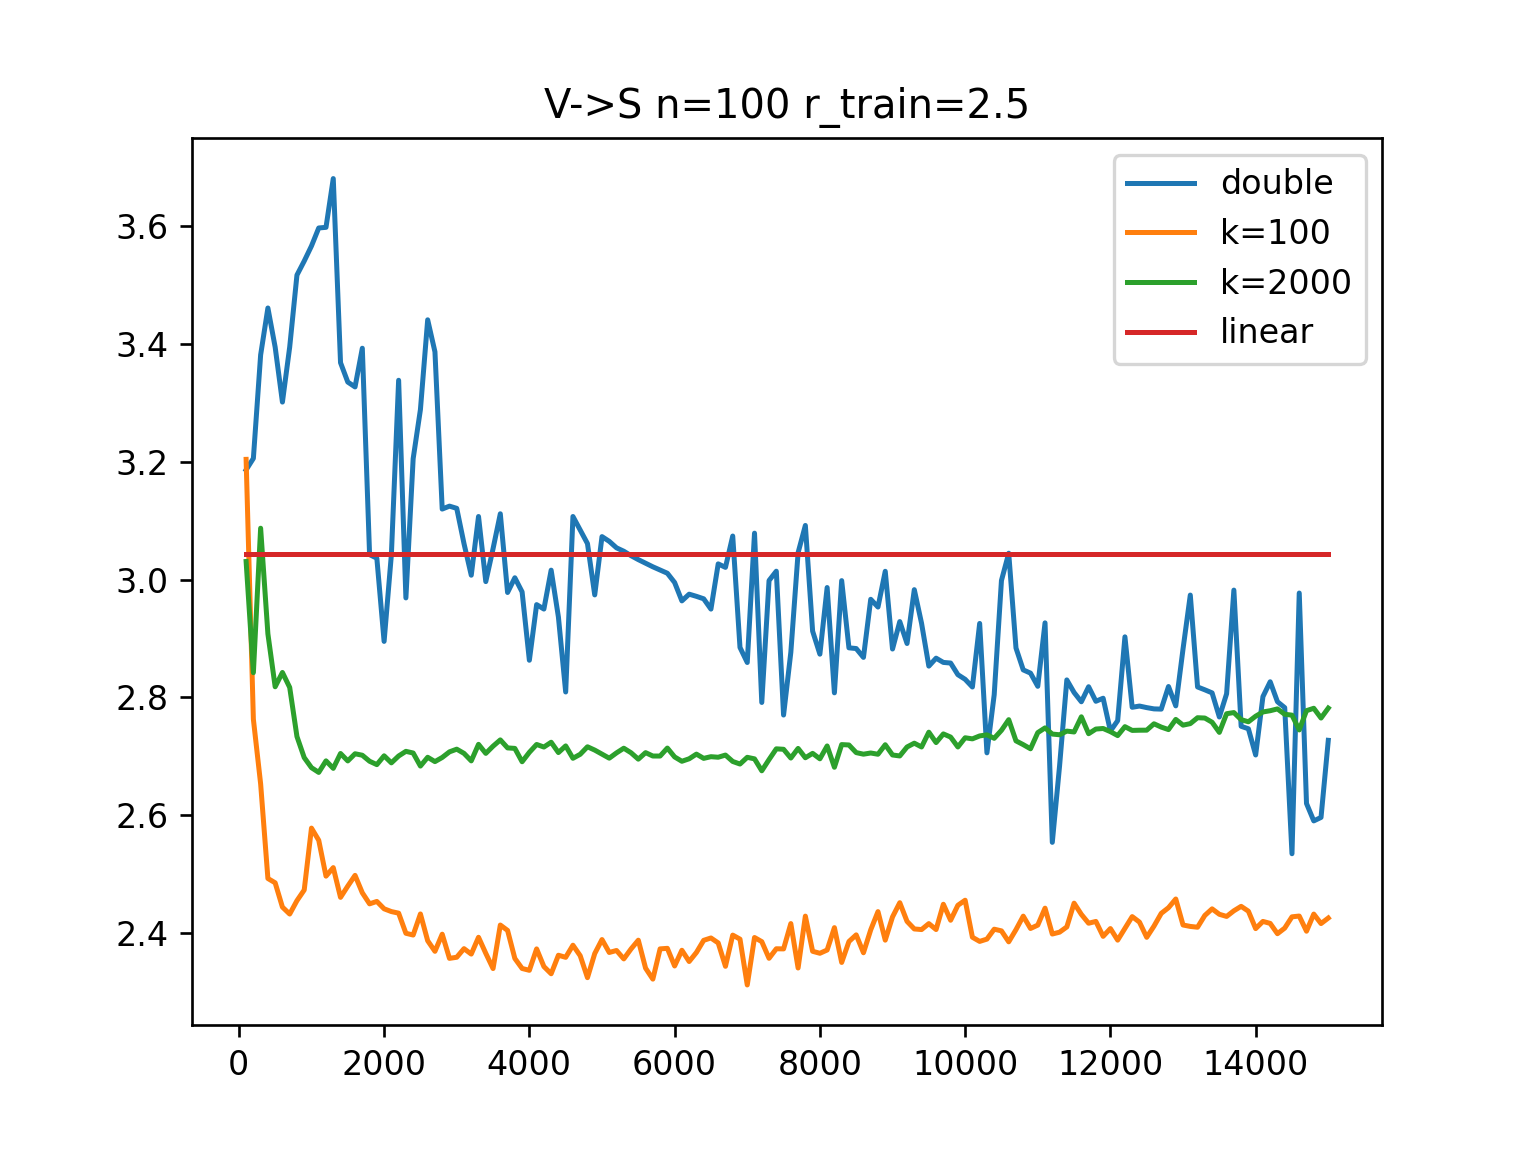
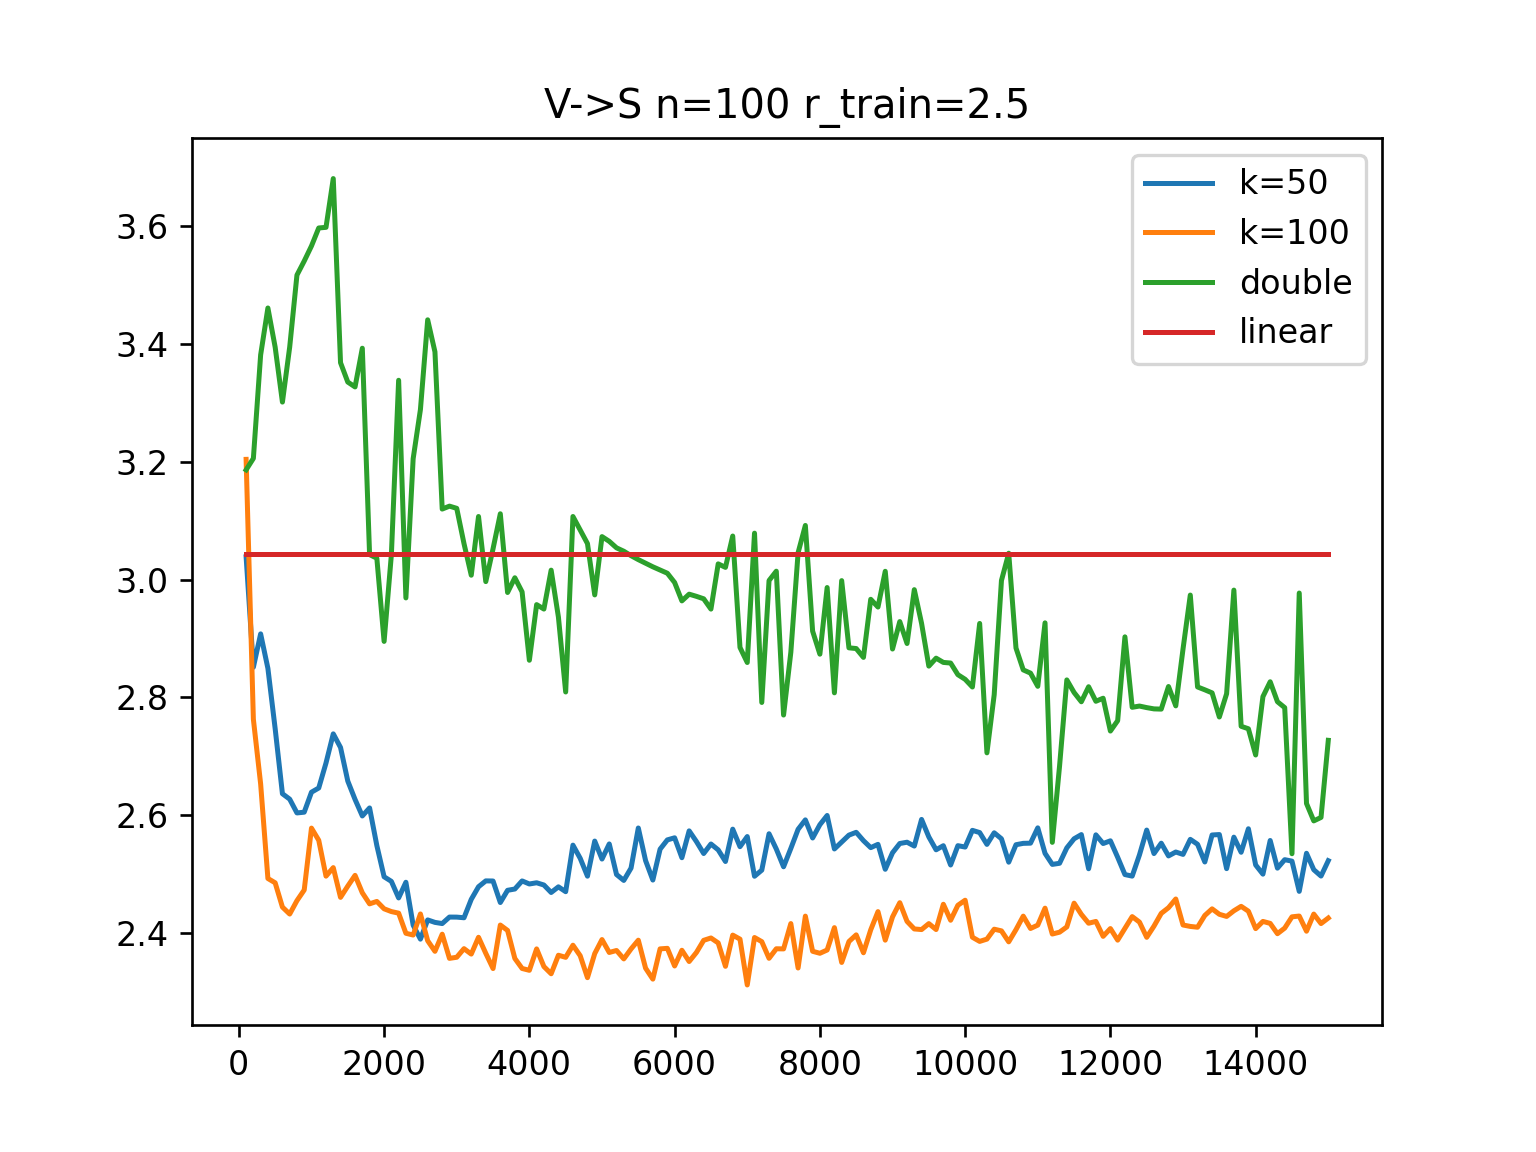
10.24

diff --git a/code/MLP.py b/code/MLP.py
@@ -64,10 +64,9 @@ def Weight_model(X, Y, epochs = 2, cov_mask=None, order=1, num_steps = 5000, lr 
         
         independ_loss, balance_loss, loss_s, loss_2 = decorr_loss(X, weight, cov_mask, order=order)
         
-        # predict_loss, r_loss, r_weight = p_model.train_and_test(X, Y, weight)
-        # loss = independ_loss +  k * predict_loss
-        
-        loss = independ_loss
+        predict_loss, r_loss, r_weight = p_model.train_and_test(X, Y, weight)
+        loss = independ_loss +  k * predict_loss
+        # loss = independ_loss
         loss.backward()
         optimizer.step()
         if (i+1) % iter_print == 0:
@@ -75,8 +74,8 @@ def Weight_model(X, Y, epochs = 2, cov_mask=None, order=1, num_steps = 5000, lr 
             record /= np.sum(record) # normalize: weights sum up to 1
             weight_list.append(record)
             if (i+1) % (iter_print*10) == 0:
-                print(f"iter{i+1}: Decorrelation loss:{independ_loss} Loss: {loss}")
-                # print(f"iter{i+1}: Decorrelation loss:{independ_loss} predict_loss:{predict_loss} Loss: {loss}")
+                # print(f"iter{i+1}: Decorrelation loss:{independ_loss} Loss: {loss}")
+                print(f"iter{i+1}: Decorrelation loss:{independ_loss} predict_loss:{predict_loss} Loss: {loss}")
             # record the corr of loss and weight
             # correlation_coefficient = np.corrcoef(r_loss.detach().numpy().T, (r_weight**2).detach().numpy().T)[0,1]
             # corr_list.append(correlation_coefficient) 

diff --git a/code/main.py b/code/main.py
@@ -126,7 +126,7 @@ def main(args, round, logger):
     
     # baseline2: DWR
     dwr_ans = []
-    
+    """
     logger.info('Start training DWR...')
     model = LinearRegression()
     weight = torch.ones(n, 1, device=device)        
@@ -141,7 +141,7 @@ def main(args, round, logger):
             Yp = model.predict(X_test)
             b.append(mean_squared_error(Y_test, Yp))
         dwr_ans.append(b)
-    
+    """
     return ans, linear_ans, dwr_ans
 
 if __name__ == "__main__":
@@ -170,9 +170,9 @@ if __name__ == "__main__":
     for iter, ans in zip(x, mean_neg_RMSE):
         print(f"iter{iter}: neg_RMSE = {ans}")
     print(f"linear neg_RMSE = {mean_linear}")
-    np.save(f'./RMSEs/combine/{args.mode}/n={args.n}_r={args.r_train}',mean_neg_RMSE)
-    np.save(f'./RMSEs/combine/{args.mode}/DWR_n={args.n}_r={args.r_train}',mean_dwr)
-    np.save(f'./RMSEs/combine/{args.mode}/linear_n={args.n}_r={args.r_train}',[mean_linear]*len(x))
+    np.save(f'./RMSEs/combine/{args.mode}/n={args.n}_k={args.k}',mean_neg_RMSE)
+    # np.save(f'./RMSEs/combine/{args.mode}/DWR_n={args.n}_r={args.r_train}',mean_dwr)
+    # np.save(f'./RMSEs/combine/{args.mode}/linear_n={args.n}_r={args.r_train}',[mean_linear]*len(x))
     # plt.figure(dpi = 240)
     # plt.plot(x, mean_neg_RMSE, label = 'new method')
     # plt.plot(x, mean_dwr, label = 'dwr')

diff --git a/code/Prediction_Model.py b/code/Prediction_Model.py
@@ -14,8 +14,8 @@ class PredictionModel(nn.Module):
         return self.linear(x)
     
     def train_and_test(self, X, Y, weight):
-        weight_clone =  weight.detach().clone()
-        weight_clone = (weight_clone**2) / (weight_clone**2).sum()
+        weight = (weight**2)
+        weight_clone = weight.detach().clone()
         self.train()
         # train {epochs} steps
         for epoch in range(self.epochs):
@@ -28,6 +28,6 @@ class PredictionModel(nn.Module):
         # return prediction loss
         output = self.forward(X)
         loss = self.criterion(output, Y, reduction='none')
-        weighted_loss = (loss * torch.max(weight_clone) - loss * weight_clone).mean()
+        weighted_loss = (loss * torch.max(weight) - loss * weight).mean()
         return weighted_loss, loss, weight
     

diff --git a/arange_by_mode.md b/arange_by_mode.md
@@ -1,0 +1,111 @@
+### S->V
+n = 100
+<div style="display: flex;">
+    with DWR
+    <img src="final/S->V_n=100.png" alt="" width="400">
+    without DWR
+    <img src="final/S->V_n=100_withoutDWR.png" alt="" width="400">
+</div>
+n = 200
+<div style="display: flex;">
+    with DWR
+    <img src="final/S->V_n=200.png" alt="" width="400">
+    without DWR
+    <img src="final/S->V_n=200_withoutDWR.png" alt="" width="400">
+</div>
+<div style="display: flex;">
+    n = 500
+    <img src="final/S->V_n=500.png" alt="" width="400">
+    n = 1000
+    <img src="final/S->V_n=1000.png" alt="" width="400">
+</div>
+<div style="display: flex;">
+    n = 1500
+    <img src="final/S->V_n=1500.png" alt="" width="400">
+    n = 2000
+    <img src="final/S->V_n=2000.png" alt="" width="400">
+</div>
+
+### V->S
+n = 100
+<div style="display: flex;">
+    with DWR
+    <img src="final/V->S_n=100.png" alt="" width="400">
+    without DWR
+    <img src="final/V->S_n=100_withoutDWR.png" alt="" width="400">
+</div>
+n = 200
+<div style="display: flex;">
+    with DWR
+    <img src="final/V->S_n=200.png" alt="" width="400">
+    without DWR
+    <img src="final/V->S_n=200_withoutDWR.png" alt="" width="400">
+</div>
+<div style="display: flex;">
+    n = 500
+    <img src="final/V->S_n=500.png" alt="" width="400">
+    n = 1000
+    <img src="final/V->S_n=1000.png" alt="" width="400">
+</div>
+<div style="display: flex;">
+    n = 1500
+    <img src="final/V->S_n=1500.png" alt="" width="400">
+    n = 2000
+    <img src="final/V->S_n=2000.png" alt="" width="400">
+</div>
+
+### S_|_V
+n = 100
+<div style="display: flex;">
+    with DWR
+    <img src="final/S_|_V_n=100.png" alt="" width="400">
+    without DWR
+    <img src="final/S_|_V_n=100_withoutDWR.png" alt="" width="400">
+</div>
+n = 200
+<div style="display: flex;">
+    with DWR
+    <img src="final/S_|_V_n=200.png" alt="" width="400">
+    without DWR
+    <img src="final/S_|_V_n=200_withoutDWR.png" alt="" width="400">
+</div>
+<div style="display: flex;">
+    n = 500
+    <img src="final/S_|_V_n=500.png" alt="" width="400">
+    n = 1000
+    <img src="final/S_|_V_n=1000.png" alt="" width="400">
+</div>
+<div style="display: flex;">
+    n = 1500
+    <img src="final/S_|_V_n=1500.png" alt="" width="400">
+    n = 2000
+    <img src="final/S_|_V_n=2000.png" alt="" width="400">
+</div>
+
+### collinearity
+n = 100
+<div style="display: flex;">
+    with DWR
+    <img src="final/collinearity_n=100.png" alt="" width="400">
+    without DWR
+    <img src="final/collinearity_n=100_withoutDWR.png" alt="" width="400">
+</div>
+n = 200
+<div style="display: flex;">
+    with DWR
+    <img src="final/collinearity_n=200.png" alt="" width="400">
+    without DWR
+    <img src="final/collinearity_n=200_withoutDWR.png" alt="" width="400">
+</div>
+<div style="display: flex;">
+    n = 500
+    <img src="final/collinearity_n=500.png" alt="" width="400">
+    n = 1000
+    <img src="final/collinearity_n=1000.png" alt="" width="400">
+</div>
+<div style="display: flex;">
+    n = 1500
+    <img src="final/collinearity_n=1500.png" alt="" width="400">
+    n = 2000
+    <img src="final/collinearity_n=2000.png" alt="" width="400">
+</div>

diff --git a/10.24.md b/10.24.md
@@ -1,0 +1,16 @@
+# Using MLP as M model
+## configurations:
+- double layers, r_train=2.5
+- hidden layer size = 10
+- loss = decorr_loss +  k * predict_loss
+## Debug:
+- 删除了Prediction model中对weight的归一化
+## conclusions:
+- 大部分setting下
+- 样本量较小时加入fitting loss让表现更稳定
+- 更小的k适用于样本量更大的setting
+## bad settings:
+1. V->S样本量500及以下时会不如不加fitting loss
+2. collinearity样本量100及以下时会不如linear
+3. S->V样本量2000以上时会不如DWR
+4. S_|_V规律难以总结

diff --git a/arange_by_n.md b/arange_by_n.md
@@ -1,12 +1,3 @@
-# Using MLP as M model
-## configurations:
-- double layers, r_train=2.5
-- hidden layer size = 10
-- loss = decorr_loss +  k * predict_loss
-## conclusions:
-- 加入fitting loss让表现更稳定
-- 除了n较大时的S_|_V,S->V, 其余setting下都比DWR明显好
-- 超参数k影响比较小
 ### n=100
 <div style="display: flex;">
     with DWR
@@ -98,6 +89,3 @@
     <img src="final/V->S_n=2000.png" alt="" width="400">
     <img src="final/collinearity_n=2000.png" alt="" width="400">
 </div>
-
-
-
